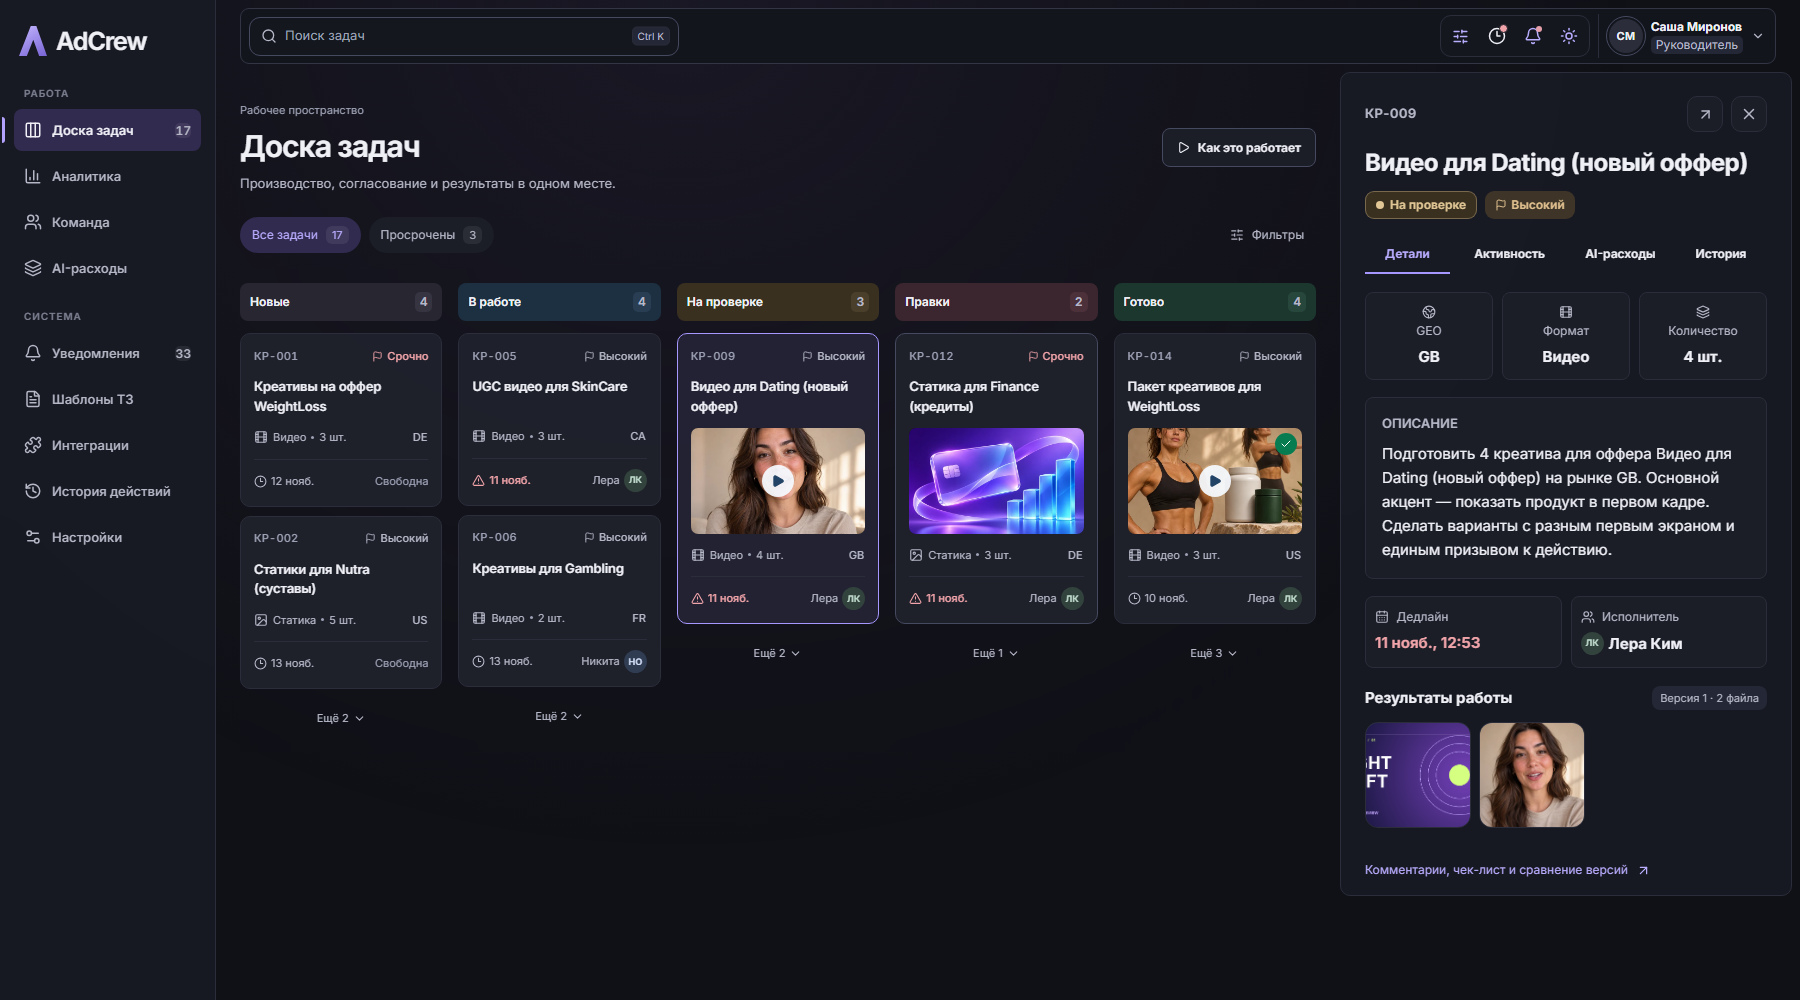
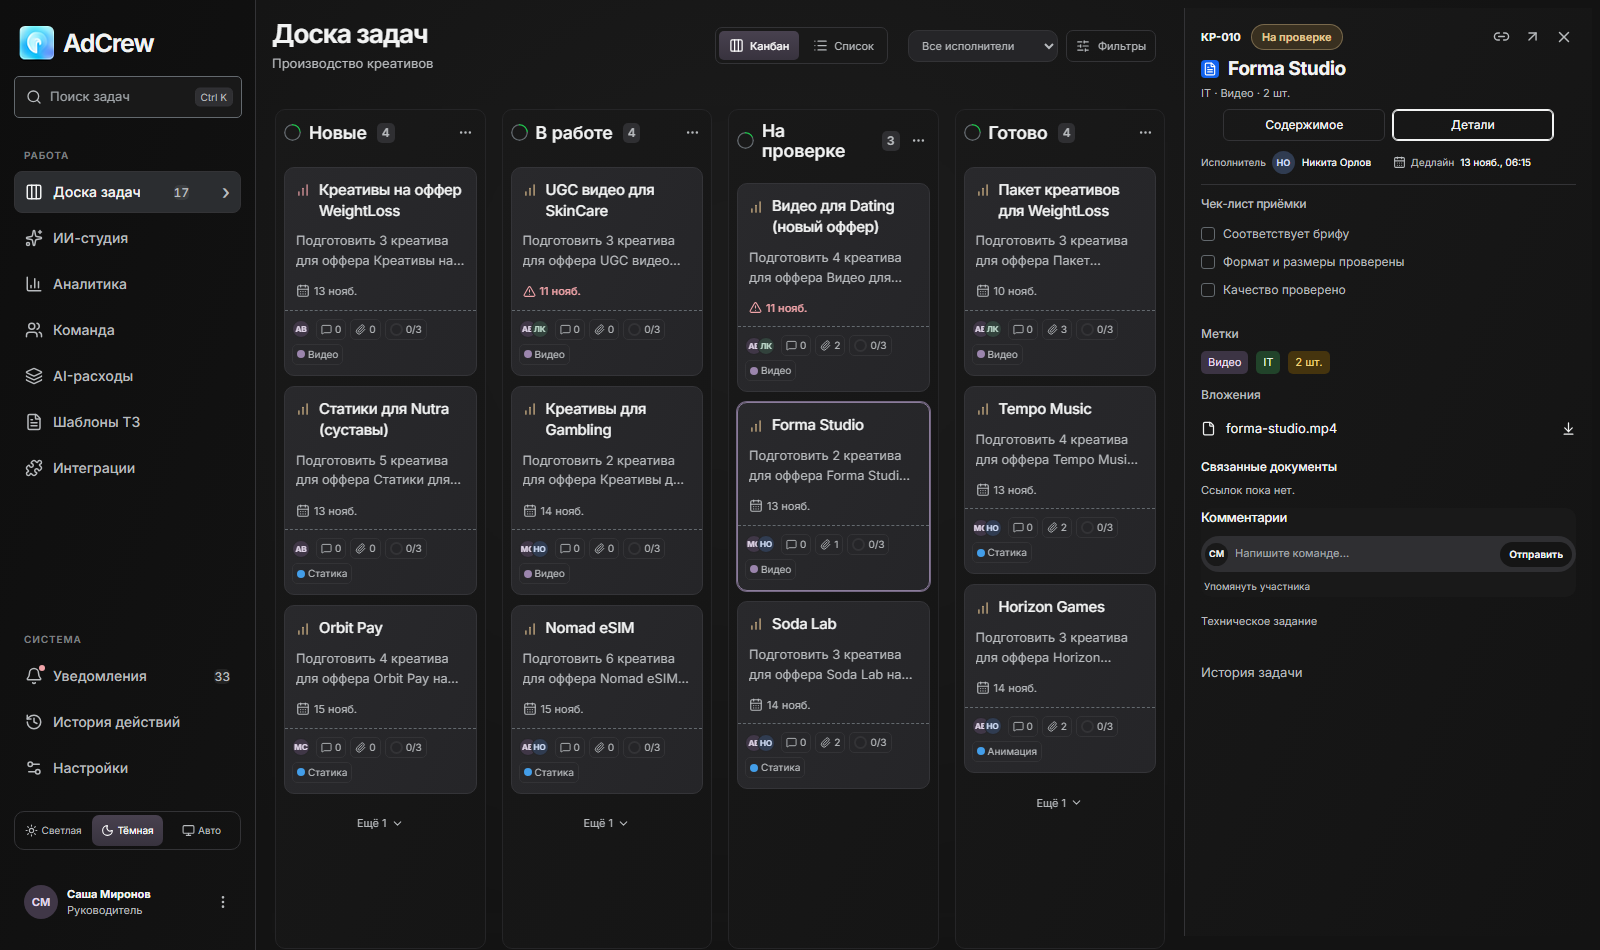
Improve creative editor and refresh README screenshots

diff --git a/src/components/studio.tsx b/src/components/studio.tsx
@@ -2,7 +2,7 @@
 
 import Link from 'next/link';
 import { useEffect, useRef, useState } from 'react';
-import { ArrowLeft, Download, ImagePlus, Sparkles } from 'lucide-react';
+import { ArrowLeft, Copy, Download, ImagePlus, RotateCcw, Sparkles } from 'lucide-react';
 import type { Task } from '@/lib/workflow';
 
 export function Studio({ task }: { task?: Task }) {
@@ -11,6 +11,11 @@ export function Studio({ task }: { task?: Task }) {
   const [format, setFormat] = useState('9:16');
   const [size, setSize] = useState(72);
   const [background, setBackground] = useState('');
+  const [alignment, setAlignment] = useState<CanvasTextAlign>('left');
+  const [textColor, setTextColor] = useState('#ffffff');
+  const [fit, setFit] = useState('cover');
+  const [notice, setNotice] = useState('');
+  const [imageReady, setImageReady] = useState(true);
   const canvas = useRef<HTMLCanvasElement>(null);
 
   useEffect(() => () => { if (background) URL.revokeObjectURL(background); }, [background]);
@@ -26,22 +31,39 @@ export function Studio({ task }: { task?: Task }) {
       ctx.fillStyle = '#25202e';
       ctx.fillRect(0, 0, width, height);
       if (image) {
-        const scale = Math.max(width / image.width, height / image.height);
+        const scale = (fit === 'cover' ? Math.max : Math.min)(width / image.width, height / image.height);
         ctx.drawImage(image, (width - image.width * scale) / 2, (height - image.height * scale) / 2, image.width * scale, image.height * scale);
       }
       ctx.font = '700 ' + size + 'px system-ui';
       ctx.textBaseline = 'top';
-      ctx.fillStyle = '#fff';
-      ctx.fillText(headline, 44, 48, width - 88);
+      ctx.fillStyle = textColor;
+      ctx.textAlign = alignment;
+      const x = alignment === 'center' ? width / 2 : alignment === 'right' ? width - 44 : 44;
+      const lines: string[] = [];
+      for (const paragraph of headline.split('\n')) {
+        let line = '';
+        for (const word of paragraph.split(/\s+/)) {
+          const candidate = line ? line + ' ' + word : word;
+          if (line && ctx.measureText(candidate).width > width - 88) {
+            lines.push(line);
+            line = word;
+          } else {
+            line = candidate;
+          }
+        }
+        lines.push(line);
+      }
+      lines.forEach((line, index) => ctx.fillText(line, x, 48 + index * size * 1.18, width - 88));
     };
     draw();
     if (background) {
       const image = new Image();
-      image.onload = () => draw(image);
+      image.onload = () => { if (!cancelled) { draw(image); setImageReady(true); } };
+      image.onerror = () => { if (!cancelled) setNotice('Изображение не открылось. Выберите другой файл.'); };
       image.src = background;
     }
     return () => { cancelled = true; };
-  }, [background, format, headline, size]);
+  }, [alignment, background, fit, format, headline, size, textColor]);
 
   function download() {
     canvas.current?.toBlob(blob => {
@@ -58,12 +80,20 @@ export function Studio({ task }: { task?: Task }) {
   return <div className="studio-page">
     <header className="studio-header">
       <div>{task && <Link className="studio-back" href={'/board?task=' + task.id}><ArrowLeft size={15} />К задаче</Link>}<h1>{task?.offer ?? 'ИИ-студия'}</h1></div>
-      <button type="button" className="button primary" onClick={download}><Download size={16} />Скачать PNG</button>
+      <button type="button" className="button primary" onClick={download} disabled={!imageReady}><Download size={16} />Скачать PNG</button>
     </header>
     <div className="studio-grid">
-      <section className="studio-panel"><h2>Чат</h2><label className="field">{task ? 'Запрос на основе брифа' : 'Запрос для генерации'}<textarea rows={8} value={prompt} onChange={event => setPrompt(event.target.value)} placeholder="Опиши, что создать…" /></label><p className="muted">Для ответов и генерации изображений потребуется подключить ИИ.</p></section>
-      <section className="studio-panel studio-editor"><header><h2>Редактор</h2><label className="studio-upload"><ImagePlus size={16} />Загрузить изображение<input type="file" accept="image/png,image/jpeg,image/webp" onChange={event => { const file = event.currentTarget.files?.[0]; if (file) setBackground(URL.createObjectURL(file)); }} /></label></header><div className="studio-canvas"><canvas ref={canvas} width={format === '16:9' ? 1920 : 1080} height={format === '9:16' ? 1920 : 1080} aria-label="Превью креатива" /></div></section>
-      <section className="studio-panel"><h2>Слои</h2><label className="field">Заголовок<input value={headline} maxLength={90} onChange={event => setHeadline(event.target.value)} /></label><label className="field">Размер текста <input type="range" min="30" max="160" value={size} onChange={event => setSize(Number(event.target.value))} /></label><label className="field">Формат<select value={format} onChange={event => setFormat(event.target.value)}><option>9:16</option><option>1:1</option><option>16:9</option></select></label><div className="studio-assistant"><h2><Sparkles size={16} />ИИ-помощник</h2><p className="muted">Быстрые правки</p><button type="button" className="button secondary" onClick={() => setSize(value => Math.min(160, Math.round(value * 1.15)))}>Увеличить заголовок на 15%</button></div></section>
+      <section className="studio-panel"><h2>Запрос для ИИ</h2><label className="field">{task ? 'Запрос на основе брифа' : 'Запрос для генерации'}<textarea rows={8} value={prompt} onChange={event => setPrompt(event.target.value)} placeholder="Опиши, что создать…" /></label><p className="muted">Генерация станет доступна после подключения ИИ-провайдера.</p><button className="button secondary" type="button" disabled={!prompt.trim()} onClick={async () => {
+        try { await navigator.clipboard.writeText(prompt); setNotice('Запрос скопирован'); }
+        catch { setNotice('Не удалось скопировать запрос. Выделите текст и скопируйте вручную.'); }
+      }}><Copy size={15} />Копировать запрос</button></section>
+      <section className="studio-panel studio-editor"><header><h2>Редактор</h2><label className="studio-upload"><ImagePlus size={16} />Загрузить изображение<input type="file" accept="image/png,image/jpeg,image/webp" onChange={event => { const file = event.currentTarget.files?.[0]; if (file) { setImageReady(false); setNotice(''); setBackground(URL.createObjectURL(file)); }
+        event.currentTarget.value = ''; }} /></label></header><div className="studio-canvas"><canvas ref={canvas} width={format === '16:9' ? 1920 : 1080} height={format === '9:16' ? 1920 : 1080} aria-label="Превью креатива" /></div></section>
+      <section className="studio-panel"><h2>Настройки креатива</h2><label className="field">Заголовок<textarea rows={2} value={headline} maxLength={180} onChange={event => setHeadline(event.target.value)} /></label><label className="field">Размер текста <input type="range" min="30" max="160" value={size} onChange={event => setSize(Number(event.target.value))} /></label><label className="field">Формат<select value={format} onChange={event => setFormat(event.target.value)}><option>9:16</option><option>1:1</option><option>16:9</option></select></label><label className="field">Выравнивание<select value={alignment} onChange={event => setAlignment(event.target.value as CanvasTextAlign)}><option value="left">По левому краю</option><option value="center">По центру</option><option value="right">По правому краю</option></select></label>
+      <div className="studio-settings-row"><label className="field">Цвет текста<input type="color" value={textColor} onChange={event => setTextColor(event.target.value)} /></label>{background && <label className="field">Фото<select value={fit} onChange={event => setFit(event.target.value)}><option value="cover">Заполнить</option><option value="contain">Целиком</option></select></label>}</div>
+      {background && <button type="button" className="button secondary" onClick={() => { setBackground(''); setImageReady(true); setNotice(''); }}><RotateCcw size={14} />Убрать изображение</button>}
+      <div className="studio-assistant"><h2><Sparkles size={16} />Быстрые правки</h2><button type="button" className="button secondary" onClick={() => setSize(value => Math.min(160, Math.round(value * 1.15)))}>Увеличить заголовок на 15%</button></div></section>
     </div>
+    {notice && <p className="studio-notice" role="status">{notice}</p>}
   </div>;
 }

diff --git a/src/app/globals.css b/src/app/globals.css
@@ -1914,3 +1914,9 @@ body::before { background: none; }
 @media (max-width: 550px) { .studio-grid { grid-template-columns: minmax(0,1fr); } }
 .board-main .task-card h3 { align-items: flex-start; }
 .board-main .task-card h3 .card-priority-mark { flex: 0 0 14px; width: 14px; height: 14px; margin-top: max(0px, calc(.7em - 7px)); }
+.studio-settings-row { display: flex; align-items: end; gap: 12px; flex-wrap: wrap; }
+.studio-settings-row input[type=color] { width: 44px; min-height: 35px; padding: 4px; }
+.studio-notice { color: var(--muted); font-size: 12px; margin-top: 10px; }
+.studio-canvas { background-image: radial-gradient(var(--rule-strong) .7px, transparent .7px); background-size: 16px 16px; }
+.studio-canvas canvas { border-radius: 4px; box-shadow: 0 10px 28px #0004; }
+.studio-panel textarea { width: 100%; }
